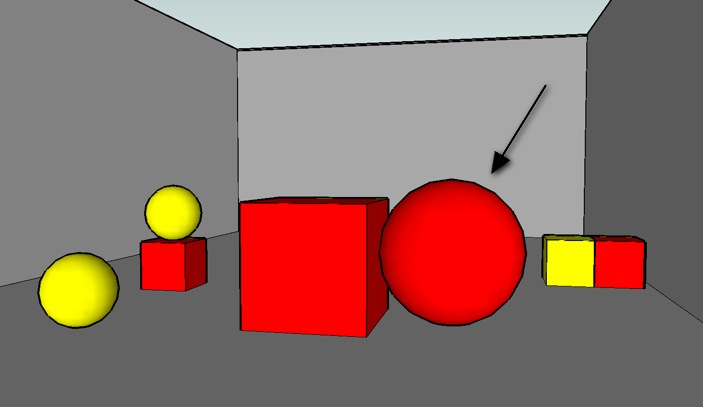
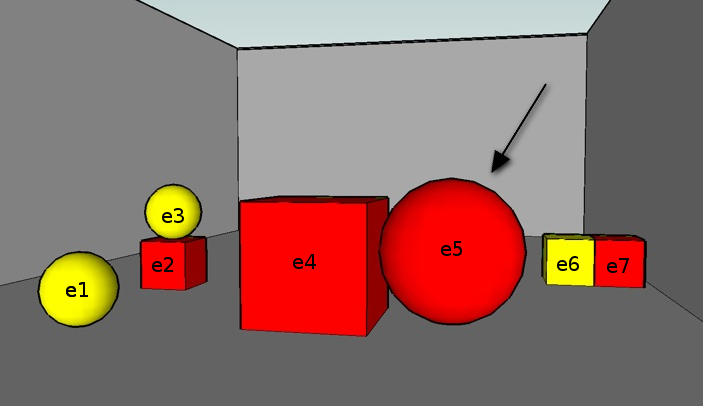
journal paper, escribiendo el algoritmo...

diff --git a/papers/journal-jair/addingprobabilities.tex b/papers/journal-jair/addingprobabilities.tex
@@ -20,12 +20,12 @@ to their properties into finer and finer classes. A description (in some formal 
 class is computed every time a class is refined. The procedure always stops when the 
 set of classes stabilizes, i.e., no further refinement is possible with the information 
 available in the scene\footnote{Of course, if we are only interested in a referring expression for 
-a given target we can stop the procedure as soon as the target is the only element of some of the classes.}
+a given target we can stop the procedure as soon as the target is the only element of some of the classes.}.
 If the target element is in a singleton class, then 
 the formal description of that class is a referring expression; otherwise the 
 target cannot be unequivocally described (in $\mathcal{L}$).  
 
-It is clear that a scene can be encoded in different ways as a relational model (for example, we could argue that $e_1$ is also \emph{leftof} $e_2$, and so on).  The algorithm assumes that these issues have been resolved and that the model encodes a suitable representation of the scene we want to describe.  Moreover, we will assume that all relations are \emph{binary}.  We will not consider relations of arity greater than two (relations of higher arity can be encoded as binary relations via reification, if necessary).
+It is clear that a scene can be encoded in different ways as a relational model (for example in \ref{figure22}, we could argue that $e_1$ is also \emph{leftof} $e_2$, not considered because they are no touching).  The algorithm assumes that these issues have been resolved and that the model encodes a suitable representation of the scene we want to describe.  Moreover, we will assume that all relations are \emph{binary}.  We will not consider relations of arity greater than two (relations of higher arity can be encoded as binary relations via reification, if necessary).
 
 On termination, the algorithm computes what are called the $\mathcal{L}$-similarity classes of the input model $\gM$. Intuitively, if two elements in the model belong to the same $\mathcal{L}$-similarity class, then $\mathcal{L}$ is not expressive enough to tell them appart (i.e, no formula in $\mathcal{L}$ can distinguish them). 
 
@@ -33,18 +33,18 @@ On termination, the algorithm computes what are called the $\mathcal{L}$-similar
 
 ACA VOY A PONER gramatica para generar... ALC y EL
 
-In what follows, we will use formulas of the $\el$ description logic language~\cite{baad:desc03} to describe refinement classes because it is more natural for RE.  As discussed in~\cite{arec2:2008:Areces}, this language is suitable for conjunctive relational RE, which are the ones we will find in the corpora used for our evaluation\footnote{Notice, though, that the particular formal language used is independent of the main algorithm, and different add$_{\mathcal{L}}$(R,$\varphi$,\RE) functions can be used depending on the language involved.}. For a detail description of $\el$, we refer to~\cite{baad:desc03}.  
+In what follows, we will use formulas of the $\el$ description logic language~\cite{baad:desc03} to describe refinement classes because it is more natural for RE generation.  As discussed in~\cite{arec2:2008:Areces}, this language is suitable for conjunctive relational RE, which are the ones we found in the corpora used for our evaluation\footnote{Notice, though, that the particular formal language used is independent of the main algorithm, and different add$_{\mathcal{L}}$(R,$\varphi$,\RE) functions can be used depending on the language involved.}. %	For a detail description of $\el$, we refer to~\cite{baad:desc03}.  
 
 The input to the algorithm will be a relational model $\mathcal{M} = \tup{\Delta, \interp{\cdot}}$,
 where $\Delta$ is the non-empty domain of objects in the scene, and $\interp{\cdot}$ is an 
 interpretation function that assigns to all properties in the scene its intended extension.  For example, 
 the scene shown in Figure~\ref{GRE3D7-stimulus} could be represented by the model $\gM=\tup{\Delta,\interp{\cdot}}$ shown in Figure~\ref{GRE3D7-stimulus-graph}; where $\Delta = \{e_1,\ldots,e_7\}$, and $\interp{\emph{green}}$ is $\{e_3,e_4,e_6\}$.
 
-T is the most general description (a formula) that includes all elements of the model, is like ``thing'' every element will be a thing.
+T is the most general description (a formula) which interpretation includes all elements of the model, it is like ``thing'' every element will be a thing.
 
-We will say that a formula is subsumed if their extension can be cover by a sum of extension of other formulas. For example, in the Figure~\ref{figure22}, T if subsumed to ball and cube, because $\interp{T}$ = $\{e_1, e_2, e_3, e_4, e_5, e_6, e_7\}$ and the $\interp{ball}$ = $\{e_1, e_3, e_5\}$, $\interp{cube}$ = $\{e_2, e_4, e_6, e_7\}$, it is $\{e_1, e_2, e_3, e_4, e_5, e_6, e_7\}$ = $\{e_1, e_3, e_5\} \cup \{e_2, e_4, e_6, e_7\}$ \\
+We will say that a formula is subsumed for others, if their extension can be cover by the union of extensions of other formulas. For example, in the Figure~\ref{figure22}, T is subsumed to ball and cube, because $\interp{T}$ = $\{e_1, e_2, e_3, e_4, e_5, e_6, e_7\}$ and the $\interp{ball}$ = $\{e_1, e_3, e_5\}$, $\interp{cube}$ = $\{e_2, e_4, e_6, e_7\}$, it is $\{e_1, e_2, e_3, e_4, e_5, e_6, e_7\}$ = $\{e_1, e_3, e_5\} \cup \{e_2, e_4, e_6, e_7\}$. Intuitively the formula cube or ball have more information than T, for each element of T, there is a formula that gives more information, say ``cube'' is more informative than say ``thing''.\\
 
-In following part we will explain and example of execusion of the algorithms~\ref{algoritmoOriginal} taking into account the $\el$ logic language and then we will show how to add probabilities to the algorithm.
+In the following part we will explain an example of execusion of the algorithms~\ref{algoritmoOriginal} taking into account the $\el$ logic language and then we will show how to add probabilities to the algorithms.
 
 \begin{figure}[h!]
 \begin{center}
@@ -56,7 +56,7 @@ In following part we will explain and example of execusion of the algorithms~\re
 
 \subsection{An example of execusion}
 
-We will run the algorithm for the Figure~\ref{figure22}, the algorithm start with a fixed list of properties and relations, supose that that list is the following:
+We will run the algorithm for the Figure~\ref{figure22}, the algorithm start with a fixed list of properties and relations, supose that those lists are the following:
 
 ordered properties (prop): ball, cube, red, yellow, small, large.\\
 ordered relations (rel): leftof, rightof, ontopof, bellowof.
@@ -66,33 +66,31 @@ ordered relations (rel): leftof, rightof, ontopof, bellowof.
 \includegraphics[width=.5\textwidth]{images/22.jpg}
 \end{center}
 \vspace*{-2em}
-\caption{A figure of the GRE3D7 corpus}
+\caption{A figure of the GRE3D7 corpus - The name of the objects are not appearing in the corpus}
 \label{figure22}
 \end{figure}
 
-We will return RE, that will compute formula for all elements in the domain.\\
+We will return RE, there will be a formula for each element in the domain (if that formula exists or that model).\\
 
-RE=$\{T\}$ and its $\interp{T}$ = $\{e_1, e_2, e_3, e_4, e_5, e_6, e_7\}$\\ in the beginig 
+In the begining RE=$\{T\}$ and its $\interp{T}$ = $\{e_1, e_2, e_3, e_4, e_5, e_6, e_7\}$\\
 
-The first loop for of the algorithm is in the properties. For each property realize add $\el$ \{ $\varphi$, RE\},
+The first loop for of the algorithm is in the properties. For each property realize add$\el$ \{ $\varphi$, RE\},
 
-A formula $\varphi$ will be added to RE if its interpretation has at least one element, then for each formula $\psi$ in RE the conjuntion 
-$\varphi  \cup \psi$ need to be not subsumed in RE, the $\interp{\varphi \cup \psi}$ need to be not empty, and be disctint of 
-$\interp{\psi}$. 
+A formula $\varphi$ will be added to RE if its interpretation has at least one element, then for each formula $\psi$ in RE the conjunction 
+$\varphi  \cup \psi$ need to be not subsumed in RE, the $\interp{\varphi \cup \psi}$ need to be not empty, and its interpretation need to be distinct of $\interp{\psi}$ as we can see in the algorithm \ref{algoritmoOriginal}.
 
-So first we add the set of balls, so RE = \{ T, ball\} then the set of cubes, so RE = \{ T, ball, cube\}, now we have that $\interp{ball}$ = $\{ e_1, e_3, e_5 \}$, $\interp{cube}$ = $\{ e_2, e_4, e_6, e_7 \}$, so, we are capable to delete T, because it is subsumed to the two other sets. The turn is now for red, $\interp{red}$ is: $\{e_2, e_4, e_5, e_7\}$, doing the intersection with the $\interp{.}$ of each set in RE we obtain, $\{e_5\}$ and  $\{e_2, e_4, e_7\}$, now RE = $\{ball, cube, ball and red, cube and red\}$, following with yellow, we have, $\interp{yellow}$ = $\{e_1, e_3, e_6\}$ and we obtain RE = $\{ball and yellow, cube and yellow, ball and red, cube and red\}$ note than here already clean the formula ball because it is subsumed, and the formula cube too.
+So first we add the formula ``ball'', so RE = \{T, ball\} then the formula ``cube'', so RE = \{T, ball, cube\}, now we have that $\interp{ball}$ = $\{e_1, e_3, e_5\}$, $\interp{cube}$ = $\{e_2, e_4, e_6, e_7\}$, so, we are capable to delete T, because it is subsumed to the two other sets. The turn is now for the formula ``red'', $\interp{red}$ is: $\{e_2, e_4, e_5, e_7\}$, doing the intersection with the $\interp{.}$ of each formula in RE we obtain, $\{e_5\}$ and $\{e_2, e_4, e_7\}$, now RE = $\{ball, cube, ball \wedge red, cube \wedge red\}$, following with ``yellow'', we have, $\interp{yellow}$ = $\{e_1, e_3, e_6\}$ and we obtain RE = $\{ball \wedge yellow, cube \wedge yellow, ball \wedge red, cube \wedge red\}$ note than here we already delete the formula ``ball'' because it was subsumed, and the formula ``cube'' too.
+Doing the same with ``small'' we have RE = $\{ball \wedge yellow \wedge small, cube \wedge yellow \wedge small, ball \wedge red, cube \wedge red, cube \wedge red \wedge small\}$. Next property is ``large'' so, we have RE = $\{ball \wedge yellow \wedge small, cube \wedge yellow \wedge small, ball \wedge red, cube \wedge red \wedge large, cube \wedge red \wedge small\}$. Note that here we cannot add ``large'' to a formula ``$red \wedge cube$'' because it interpretation has only one element, and the condition say that it need to have more than one in order to add the intersection with others formulas.
 
-yellow things: $\{e_1, e_3\}$, $\{e_6\}$ \\
-small: $\{e_1\}$, $\{e_2\}$, $\{e_3\}$, $\{e_6\}$, $\{e_7\}$
+Until now RE = $\{ball \wedge yellow \wedge small, cube \wedge yellow \wedge small, ball \wedge red, cube \wedge red \wedge large, cube \wedge red \wedge small\}$ and we have the following extensions: $\{e_1, e_3\}, \{e_6\}, \{e_5\}, \{e_4\}, \{e_2, e_7\}$. There is two formulas that can be refined more, the  $ball \wedge yellow \wedge small$ and $cube \wedge red \wedge small$ because they have more than one element each, so we enter en in the while cicle of Algorithm 1, in line 4. Now is the turn of relations, the first one is ``leftof'' we for each formula $\varphi$ in RE will try to add$\el$ ($\exists leftof.\varphi$, RE), can be applied to $cube \wedge red \wedge small$ but there is no formula which interpretation has more than one element to be apply with this one. The same happen for the other relations, so the algorithm ends.
+%its interpretation is $\{e_7\}$ with $\psi$ is $cube \wedge yellow \wedge small$, the others combinations can't be apply because they don't do true the preconditions. The following relation is rightof, 
 
-At this point we already have the target in a singleton set. So the formula for it is ``red and ball'', and also for s6 which formula is ``yellow cube''.\\
+%leftof, rightof, ontopof, bellowof
 
-
-As we show this algorithm depends of the order of properties and relations.\\
-
+%At this point we already have the target in a singleton set. So the formula for it is ``red and ball'', and also for s6 which formula is ``yellow cube''.\\
+%As we show this algorithm depends of the order of properties and relations.\\
 
 \section{Adding probabilities to a symbolic algorithm} \label{sec:algorithm}
-
 
 In this section we present a modification of the algorithm in~\cite{arec2:2008:Areces} where the fixed order of the properties in the 
 input scene is replaced by a finite probability distribution.  The required changes
